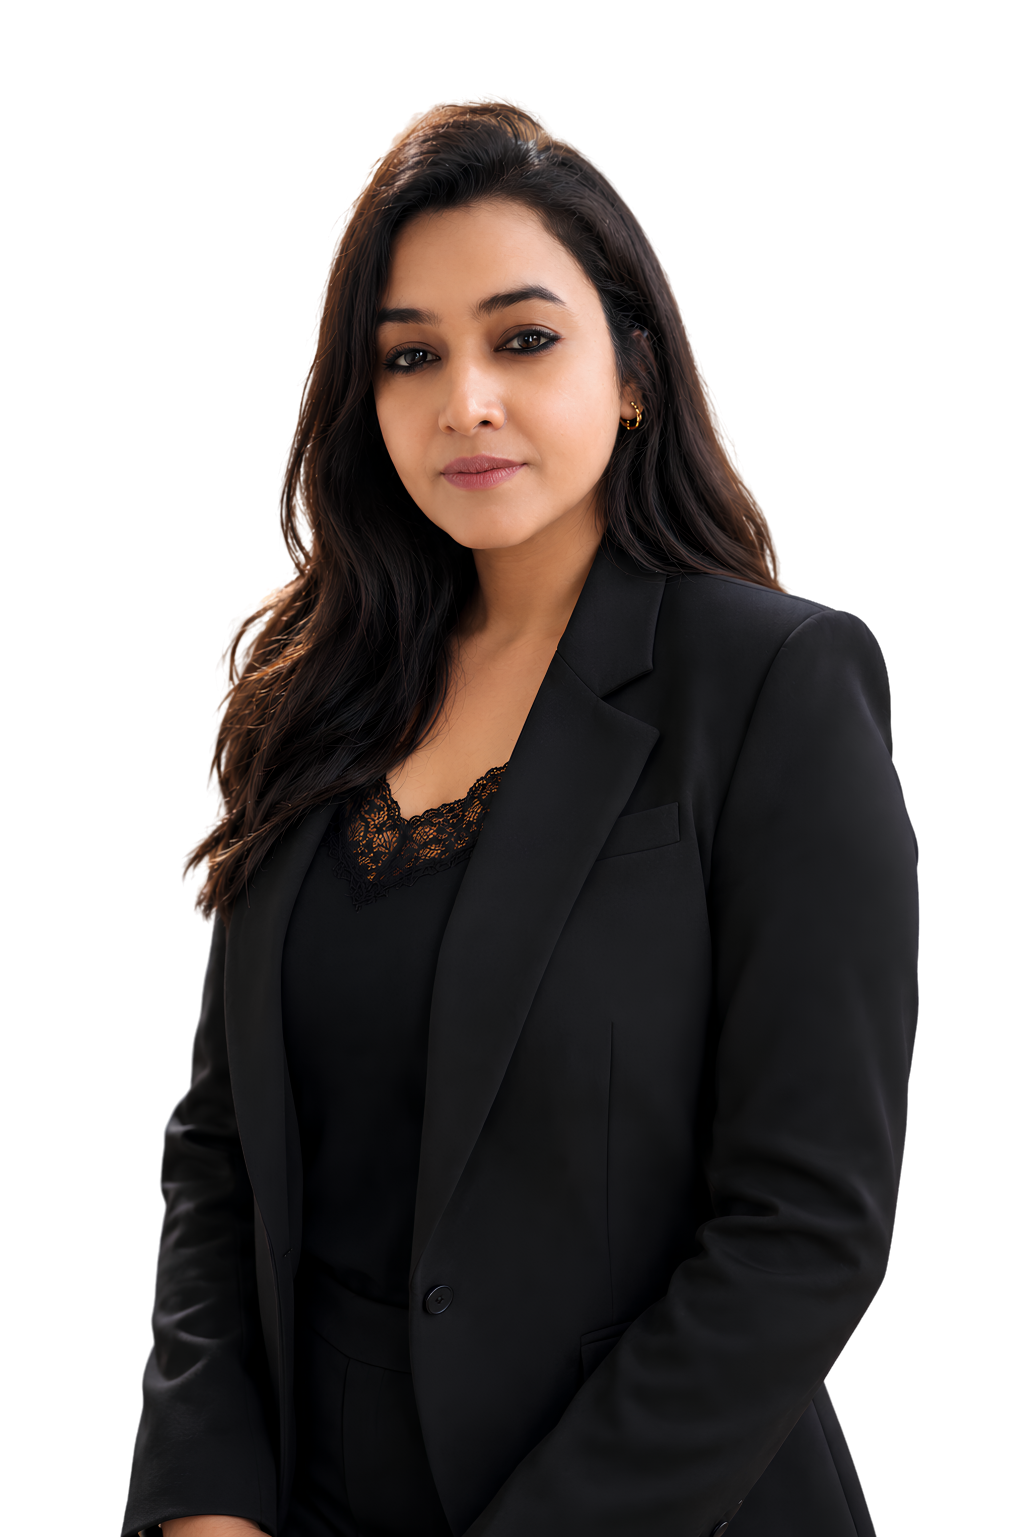
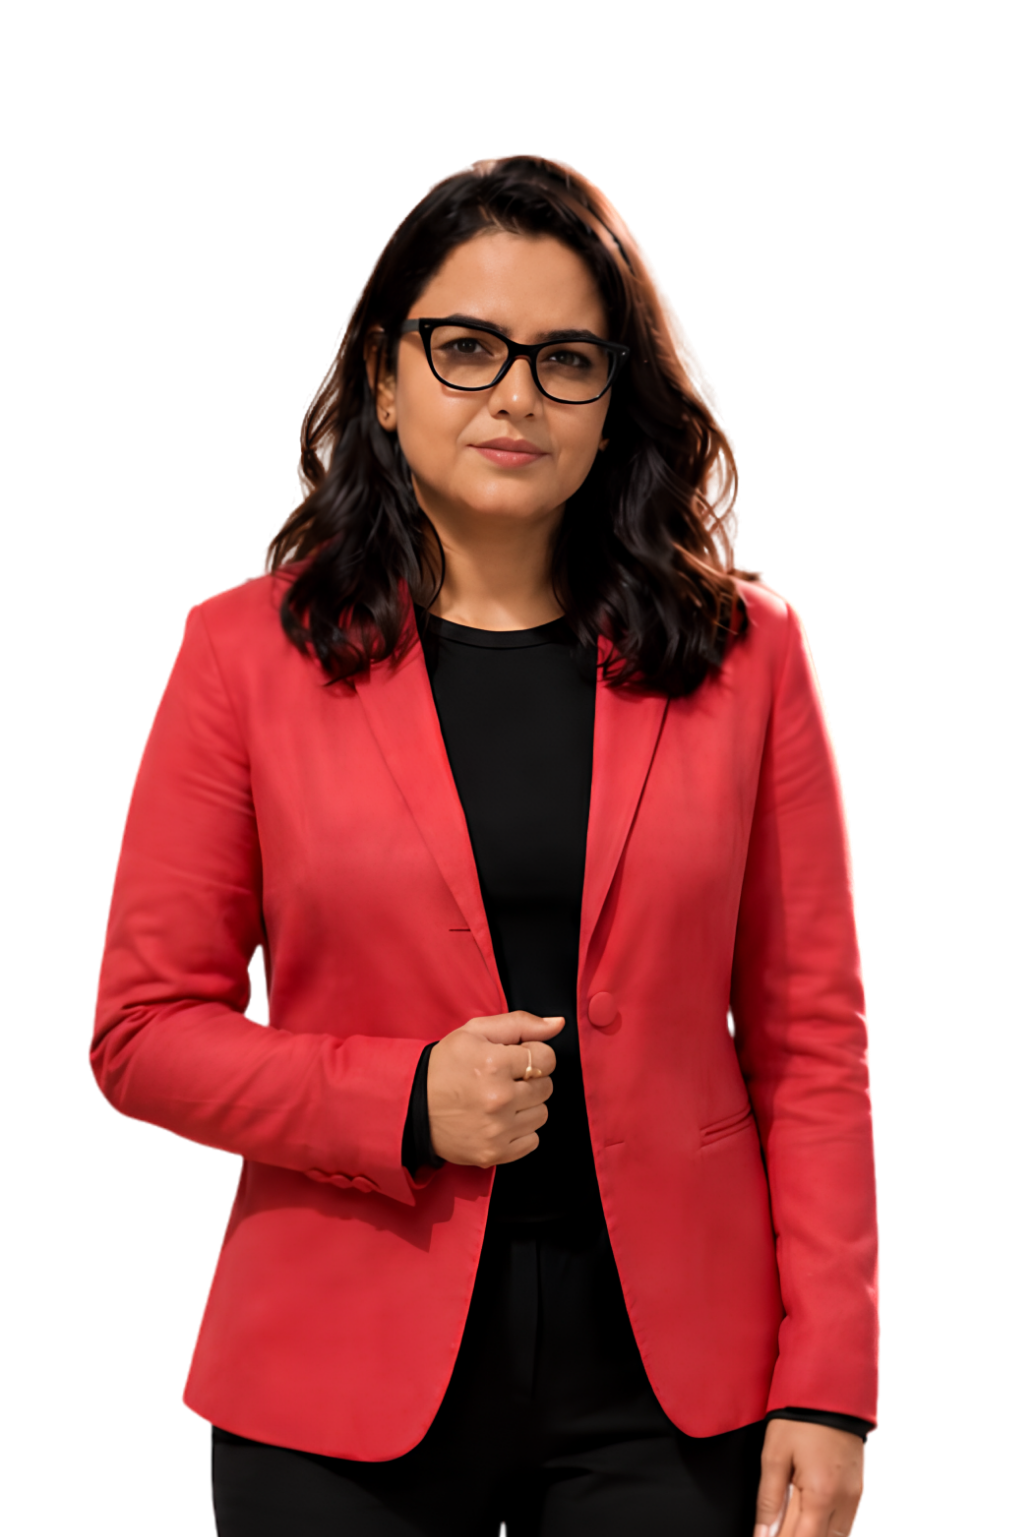
Update hero model image and fix overlapping text on mobile views

diff --git a/src/components/HeroSection.tsx b/src/components/HeroSection.tsx
@@ -64,7 +64,7 @@ export default function HeroSection() {
       >
         {/* The user's requested Cutout Image */}
         <img 
-          src="removed-image-placeholder" 
+          src="/hero-model.png" 
           alt="Premium Aesthetic Model" 
           className="object-cover md:object-contain object-bottom w-full h-full [mask-image:linear-gradient(to_bottom,black_80%,transparent)]"
         />
@@ -80,7 +80,7 @@ export default function HeroSection() {
       >
         <motion.p 
           variants={itemVars}
-          className="text-sm md:text-base uppercase tracking-[0.5em] text-white/50 mb-4"
+          className="hidden md:block text-sm md:text-base uppercase tracking-[0.5em] text-white/50 mb-4"
         >
           Mumbai&apos;s Premier Destination
         </motion.p>